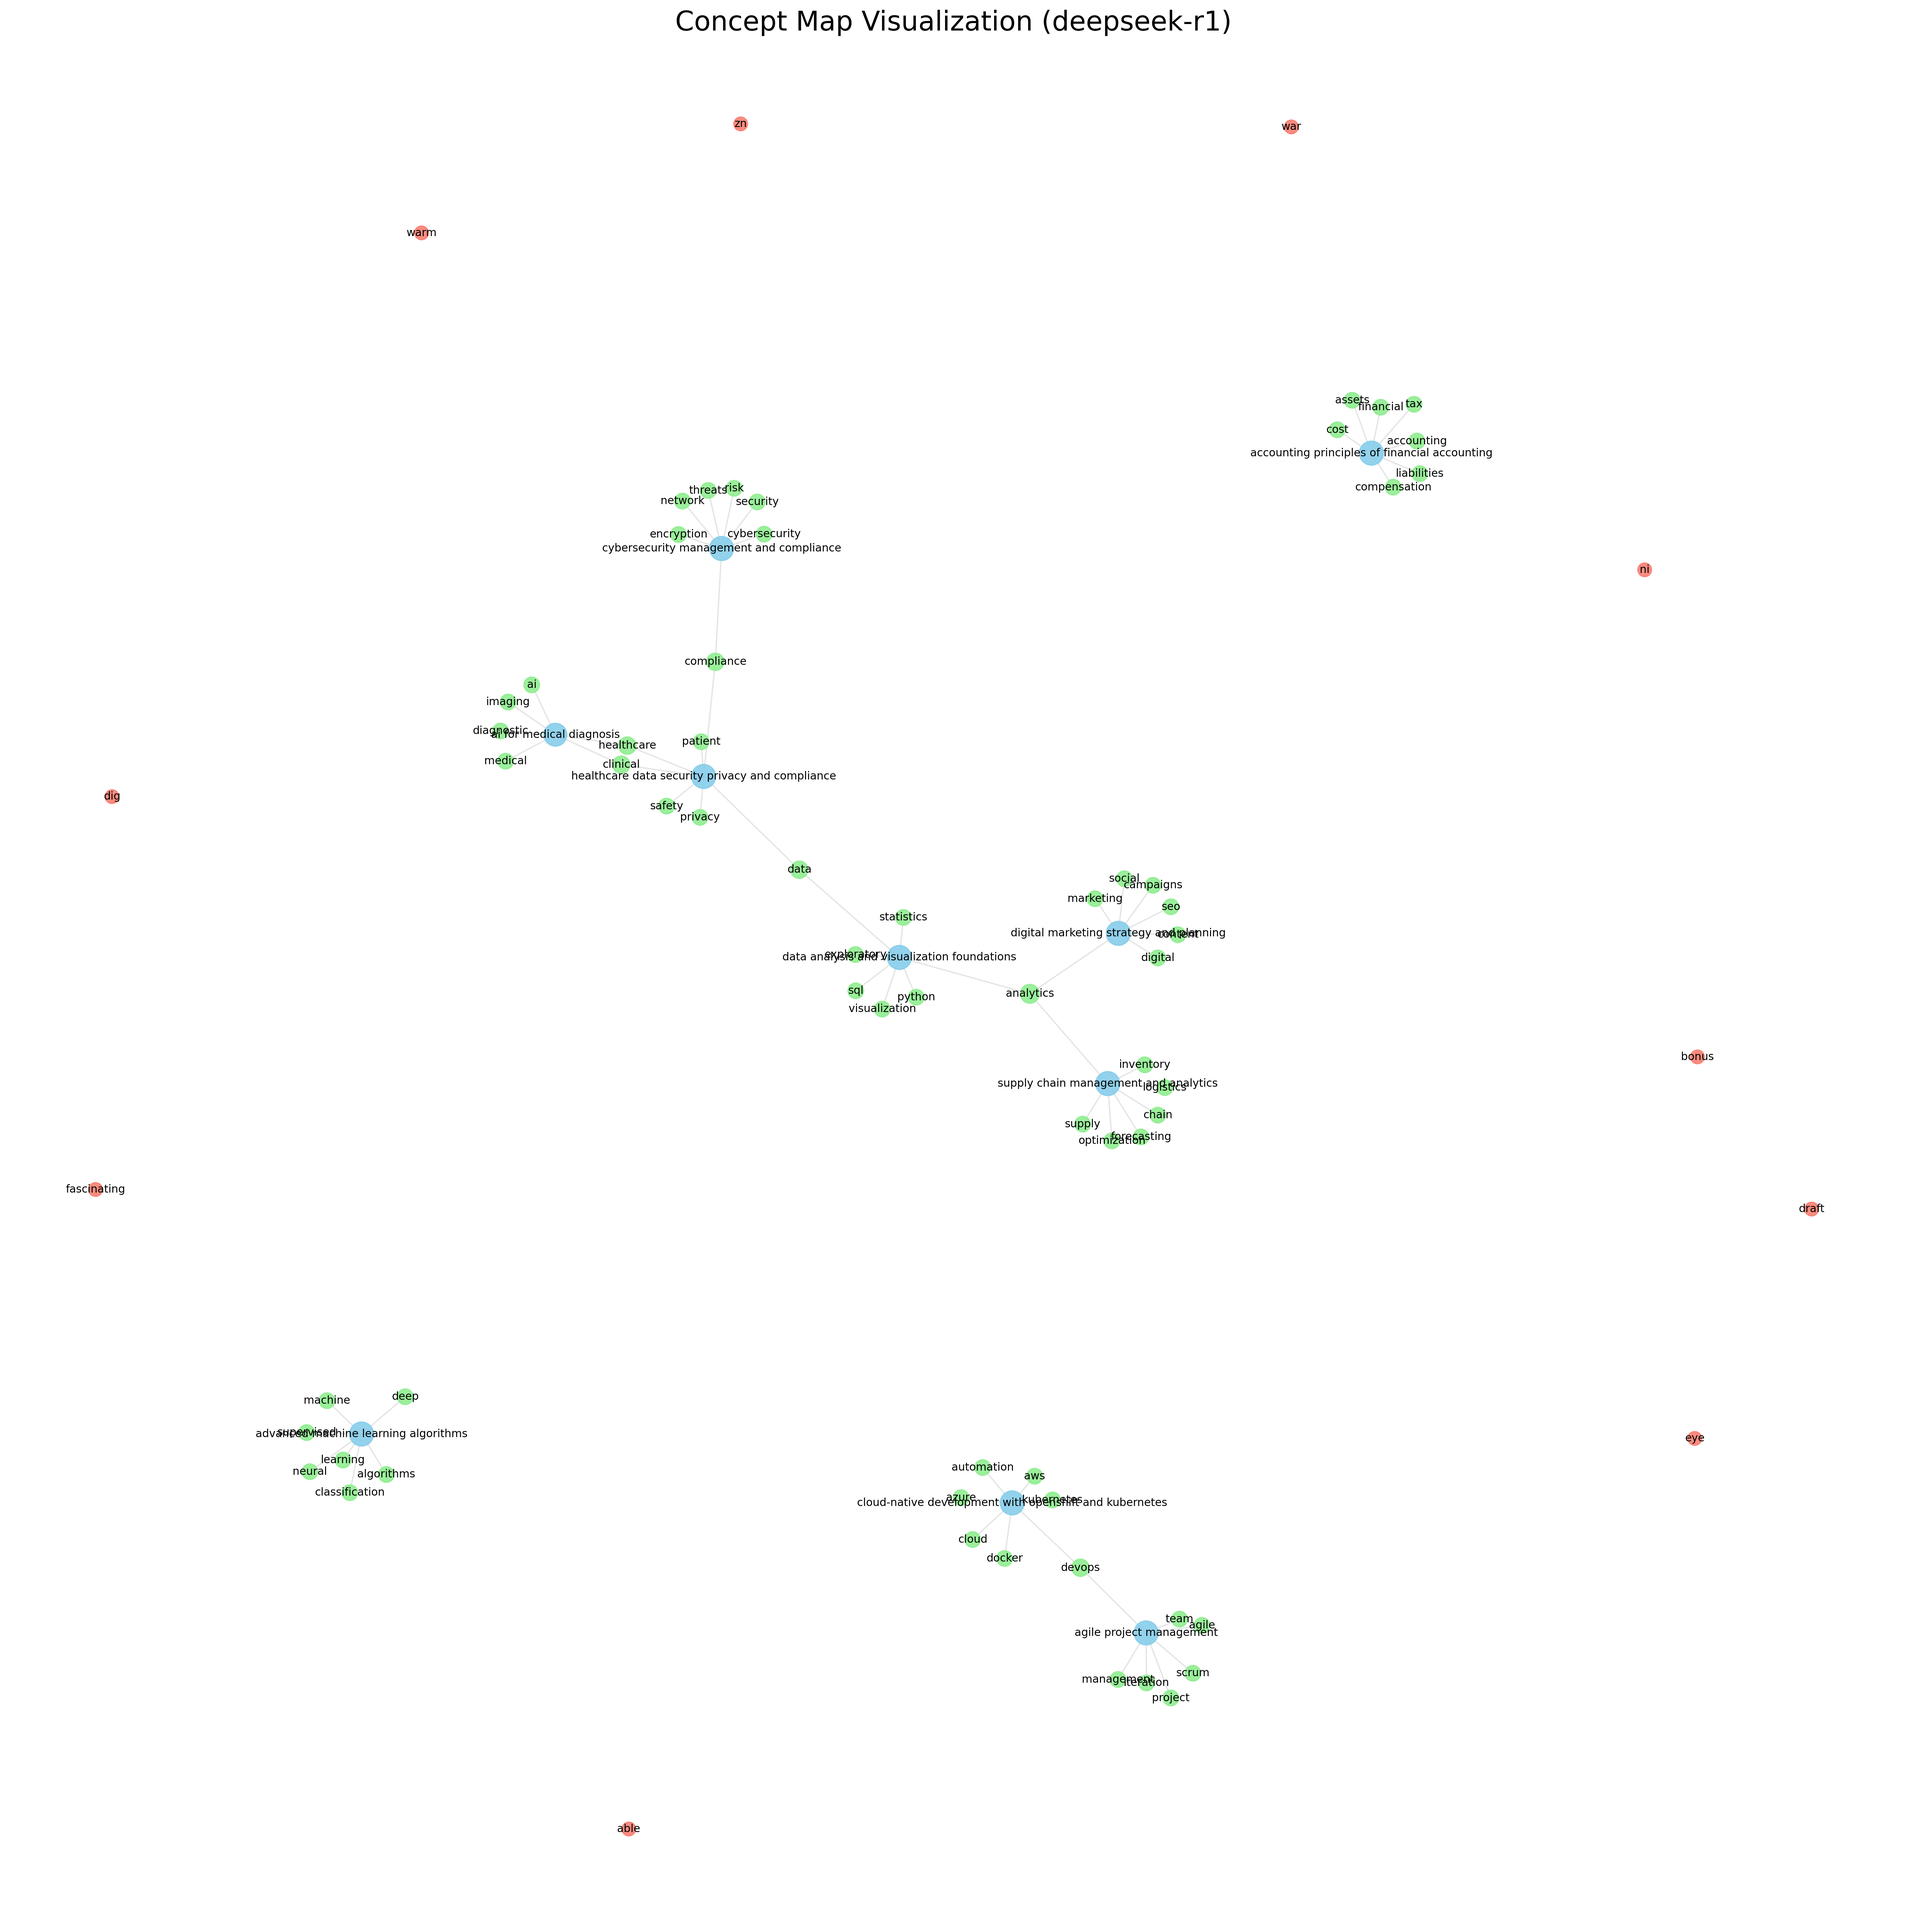
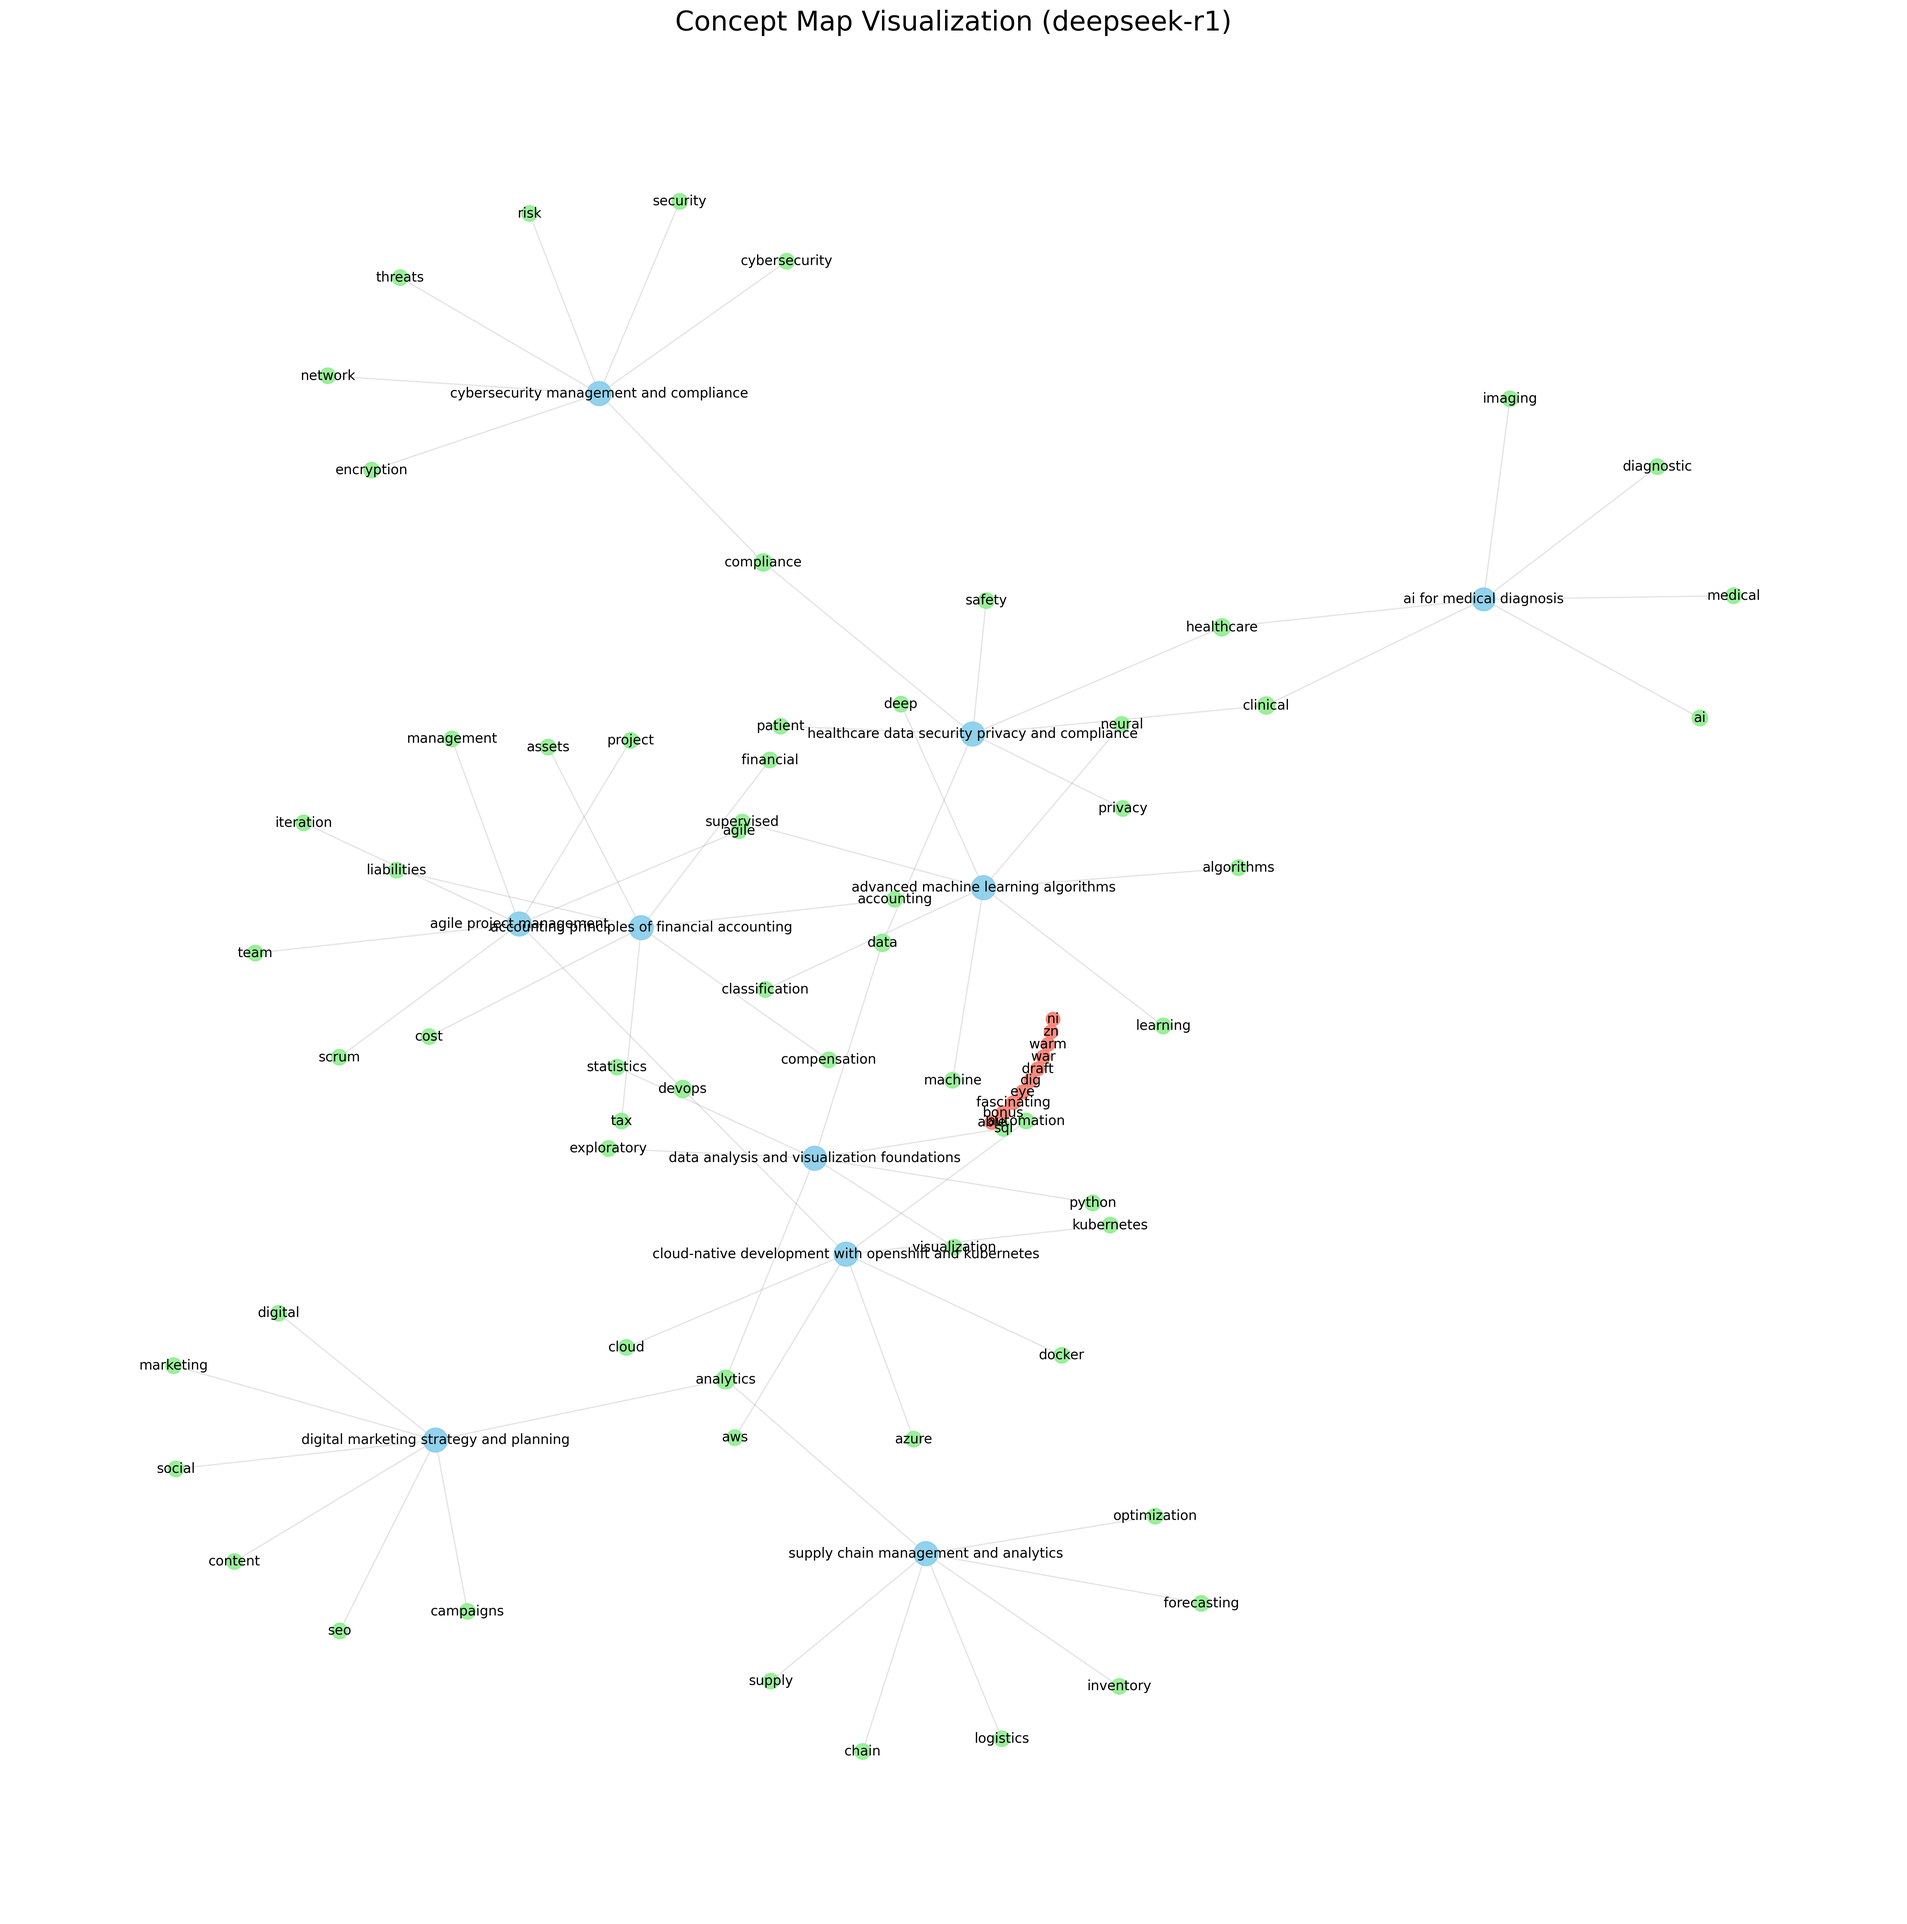
added coherence score calculations + change netwrok layout

diff --git a/concept-map/calculate_coherence.py b/concept-map/calculate_coherence.py
@@ -1,0 +1,108 @@
+import json
+import pandas as pd
+import os
+import argparse
+import numpy as np
+from sentence_transformers import SentenceTransformer
+from sklearn.metrics.pairwise import cosine_similarity
+import warnings
+warnings.filterwarnings("ignore") 
+
+def calculate_topic_coherence(json_file_path, model_name='all-MiniLM-L6-v2'):
+    """
+    Calculates an adapted topic coherence score for an LLM's concept map.
+    The score is the average of mean pairwise cosine similarities for subtopics within each main topic group.
+
+    Args:
+        json_file_path (str): Path to the input LLM JSON file.
+        model_name (str): Name of the sentence-transformer model to use for embeddings.
+
+    Returns:
+        float: The overall coherence score, or None if calculation fails.
+    """
+    print(f"\n--- Calculating Coherence for: {os.path.basename(json_file_path)} ---")
+
+    # Load JSON Data ---
+    try:
+        with open(json_file_path, 'r', encoding='utf-8') as f:
+            data = json.load(f)
+    except Exception as e:
+        print(f"Error loading or parsing JSON file '{json_file_path}': {e}")
+        return None
+
+    # Load Sentence Transformer Model 
+    try:
+        print(f"Loading sentence transformer model: {model_name}...")
+        # Load model (will download on first run)
+        embedder = SentenceTransformer("sentence-transformers/all-MiniLM-L6-v2", token=False)
+        print("Model loaded.")
+    except Exception as e:
+        print(f"Error loading sentence transformer model '{model_name}': {e}")
+        return None
+
+    # Calculate Coherence for Each Group 
+    group_coherence_scores = []
+    total_subtopics_processed = 0
+    groups_processed = 0
+
+    if 'conceptMap' not in data or not isinstance(data['conceptMap'], list):
+        print("Error: 'conceptMap' key not found or is not a list.")
+        return None
+
+    for item in data['conceptMap']:
+        if 'topic' in item and 'subtopics' in item and isinstance(item['subtopics'], list):
+            main_topic = item['topic']
+            subtopics = [st.strip() for st in item['subtopics'] if st.strip()] # Cleaned list
+
+            if len(subtopics) > 1: # Need at least 2 subtopics to calculate pairwise similarity
+                groups_processed += 1
+                total_subtopics_processed += len(subtopics)
+                try:
+                    # Generate embeddings
+                    embeddings = embedder.encode(subtopics, show_progress_bar=False)
+
+                    # Calculate pairwise cosine similarity matrix
+                    sim_matrix = cosine_similarity(embeddings)
+
+                    # Calculate average similarity (excluding diagonal, averaging upper triangle)
+                    # Get indices of the upper triangle (excluding diagonal k=1)
+                    indices = np.triu_indices_from(sim_matrix, k=1)
+                    if len(indices[0]) > 0: # Ensure there are pairs
+                      group_avg_similarity = np.mean(sim_matrix[indices])
+                      group_coherence_scores.append(group_avg_similarity)
+                      # print(f" Coherence for '{main_topic}' ({len(subtopics)} terms): {group_avg_similarity:.4f}")
+                    else: 
+                       print(f"  Warning: No pairs found for similarity in group '{main_topic}' despite >1 subtopic.")
+                       
+                except Exception as e:
+                    print(f"Error calculating coherence for topic '{main_topic}': {e}")
+            # else:
+            #     print(f" Skipping coherence for '{main_topic}': Only {len(subtopics)} subtopic(s).")
+
+    # Calculate Overall Score 
+    if not group_coherence_scores:
+        print("Error: No topic groups with >1 subtopic found. Cannot calculate overall coherence.")
+        return None
+
+    overall_coherence = np.mean(group_coherence_scores)
+    print(f"\nProcessed {groups_processed} topic groups with >1 subtopic.")
+    print(f"Total subtopics included in calculation: {total_subtopics_processed}")
+    print(f"Overall Average Group Coherence: {overall_coherence:.4f}")
+
+    return overall_coherence
+
+
+if __name__ == "__main__":
+    parser = argparse.ArgumentParser(description="Calculate adapted topic coherence for LLM JSON output.")
+    parser.add_argument("json_file", help="Path to the input JSON file from the LLM.")
+
+    args = parser.parse_args()
+
+    if not os.path.isfile(args.json_file):
+         print(f"Error: Input file not found: {args.json_file}")
+    else:
+        score = calculate_topic_coherence(args.json_file)
+        if score is not None:
+             print(f"\nFinal Coherence Score for {args.json_file}: {score:.4f}")
+        else:
+             print(f"\nFailed to calculate coherence score for {args.json_file}.")

diff --git a/concept-map/generate-viz.py b/concept-map/generate-viz.py
@@ -51,14 +51,23 @@ def create_and_save_network_visualization(nodes_csv_path, edges_csv_path, output
     print(f"Graph created with {G.number_of_nodes()} nodes and {G.number_of_edges()} edges.")
 
     # 3. Prepare Visual Properties
-    print("Calculating layout...")
-    k_val = 0.9 / math.sqrt(G.number_of_nodes()) if G.number_of_nodes() > 0 else 0.1
+    # print("Calculating layout...")
+    # k_val = 0.3 / math.sqrt(G.number_of_nodes()) if G.number_of_nodes() > 0 else 0.1
+    # try:
+    #     pos = nx.spring_layout(G, k=k_val, iterations=50, seed=42)
+    #     print("Layout calculated.")
+    # except Exception as e:
+    #      print(f"Error during layout calculation: {e}. Using random layout.")
+    #      pos = nx.random_layout(G, seed=42)
+    print("Calculating Kamada-Kawai layout...")
     try:
-        pos = nx.spring_layout(G, k=k_val, iterations=50, seed=42)
+        pos = nx.kamada_kawai_layout(G)
         print("Layout calculated.")
-    except Exception as e:
-         print(f"Error during layout calculation: {e}. Using random layout.")
-         pos = nx.random_layout(G, seed=42)
+    except Exception as e: 
+        # Fallback if kamada_kawai fails
+        print(f"Kamada-Kawai failed: {e}. Using spring_layout as fallback.")
+        k_val = 0.5 / math.sqrt(G.number_of_nodes()) if G.number_of_nodes() > 0 else 0.1
+        pos = nx.spring_layout(G, k=k_val, iterations=75, seed=42)
 
     color_map = {'Main Topic': 'skyblue', 'Subtopic': 'lightgreen', 'Unmapped': 'salmon'}
     node_colors = [color_map.get(G.nodes[node].get('type', 'Unknown'), 'gray') for node in G.nodes()]
@@ -76,7 +85,7 @@ def create_and_save_network_visualization(nodes_csv_path, edges_csv_path, output
     plt.figure(figsize=(25, 25))
     nx.draw_networkx_edges(G, pos, alpha=0.2, edge_color="gray")
     nx.draw_networkx_nodes(G, pos, node_color=node_colors, node_size=node_sizes, alpha=0.9)
-    nx.draw_networkx_labels(G, pos, labels=labels, font_size=8, font_color="black")
+    nx.draw_networkx_labels(G, pos, labels=labels, font_size=10, font_color="black")
     plt.title(f"Concept Map Visualization ({model_name})", size=20)
     plt.axis('off')
 
